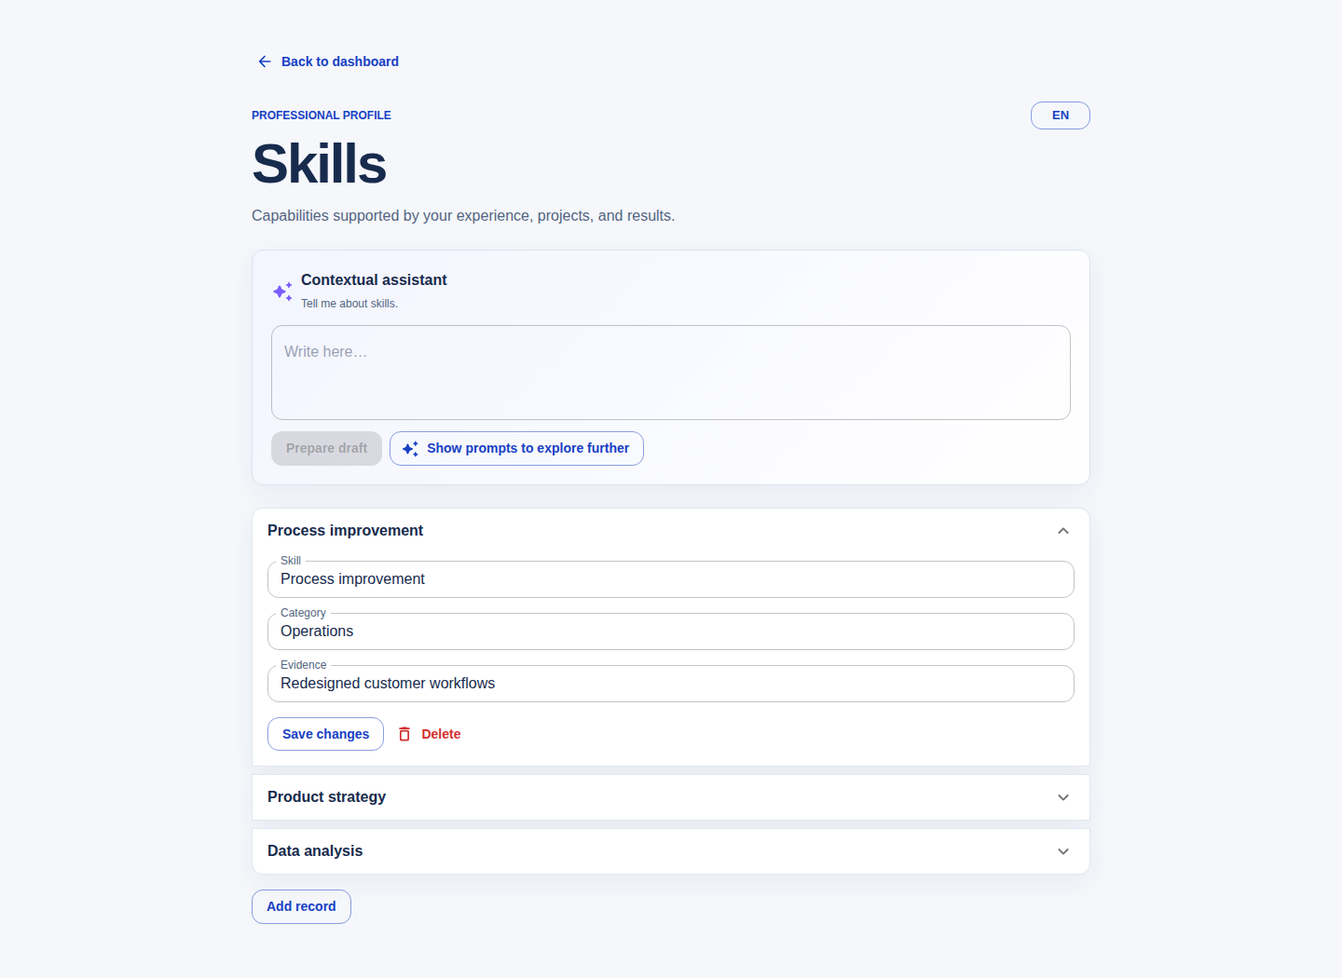
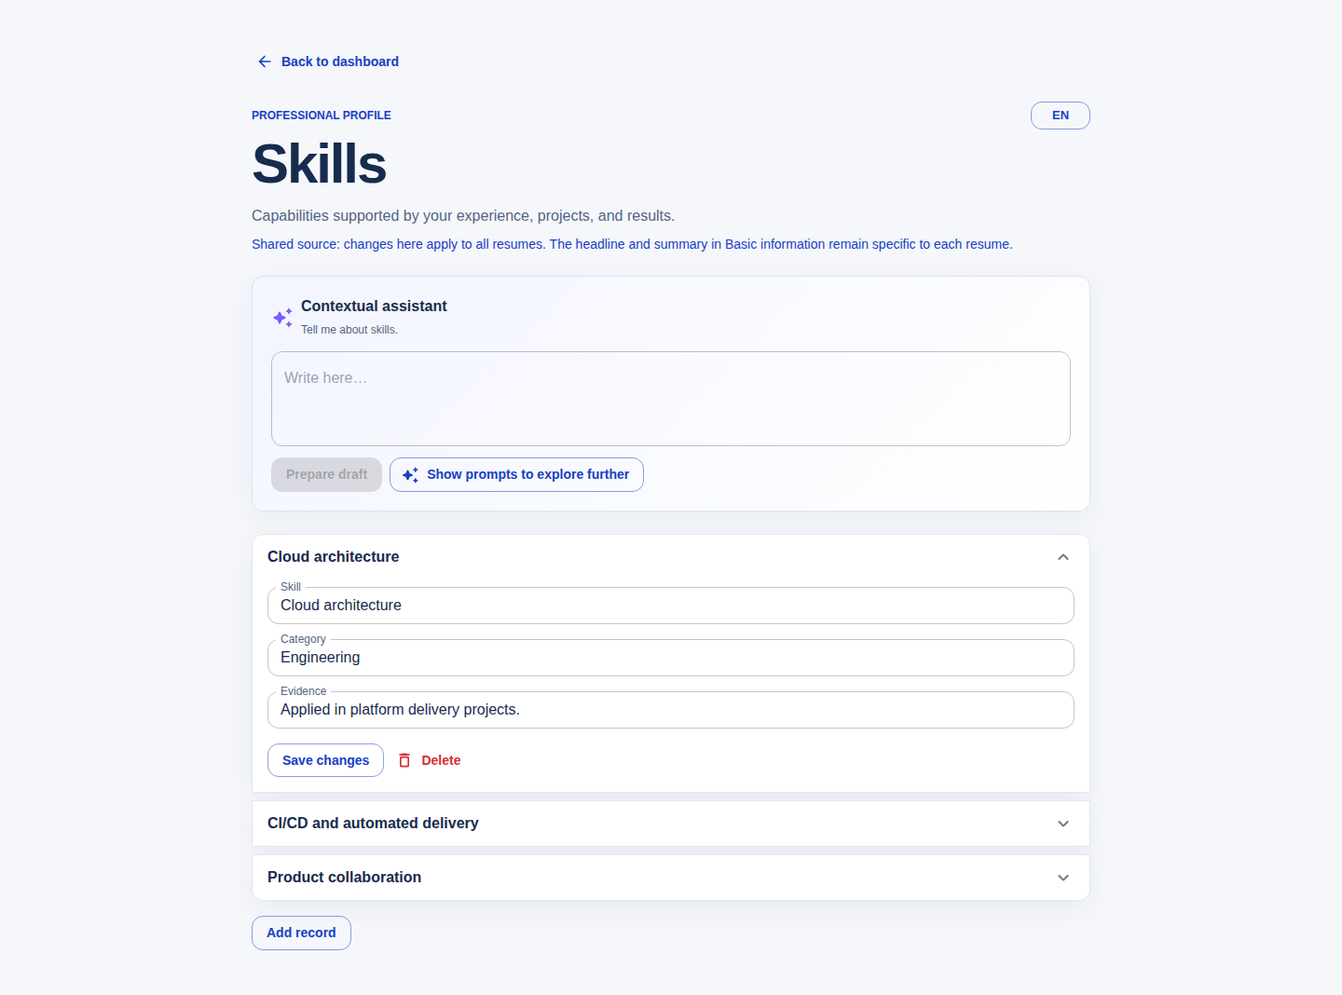
docs: standardize English guides and refresh current UI screenshots

diff --git a/docs/product/workspace.md b/docs/product/workspace.md
@@ -1,23 +1,13 @@
-# Workspace y navegación
+# Workspace and navigation
 
-1. La persona aterriza en `/`. En una instalación nueva no hay CVs ni información precargada; puede crear su primer CV vacío. Si ya existen CVs, selecciona uno según su objetivo.
-2. El perfil abre su dashboard en `/profiles/:id`.
-3. El workspace ofrece Información básica, Educación, Experiencia laboral, Proyectos, LinkedIn y Curriculum.
-4. Las secciones estructuradas navegan a `/profiles/:id/:section`.
-5. Educación, experiencia, proyectos y habilidades forman una fuente compartida entre todos los CV. Información básica (incluidos titular y resumen) permanece asociada al CV seleccionado.
-6. Cada sección de datos permite crear, editar, colapsar y eliminar registros.
-7. LinkedIn muestra proyectos y habilidades; Curriculum presenta una vista imprimible para guardar como PDF.
-8. El switcher de la barra lateral vuelve al selector de CVs.
-9. La configuración y el objetivo permanecen asociados al CV seleccionado.
+A new installation opens `/` with no CVs or career data. Create a resume from scratch, or select an existing one. Each resume opens at `/profiles/:id`; structured sections use `/profiles/:id/:section`.
 
-Al crear un CV se puede elegir otro como base y pegar la descripción de un proyecto o cargo. El sistema copia los datos básicos editables, guarda el objetivo y reutiliza la trayectoria compartida. En el dashboard, la persona puede pedir un borrador de titular y resumen con el proveedor de IA configurado en el CV base. Antes de enviarlo, la app muestra el proveedor y las categorías de datos que compartirá; el resultado requiere revisión y confirmación.
+The workspace includes Basic information, Education, Work experience, Projects, Skills, LinkedIn, Resume, and Settings. Each data section supports creating, editing, collapsing, and deleting records. Education, experience, projects, and skills form one shared career source. Basic information, headline, summary, reflection answers, goal, AI settings, and appearance belong to the selected CV.
 
-La vista de Currículum permite elegir entre las plantillas Franja coral, Panel lateral y Editorial; seleccionar cinco paletas prediseñadas; y crear una paleta ajustando los colores principal, secundario, texto, texto suave y fondo. Plantillas y paletas tienen catálogos JSON separados (`cv-templates.json` y `cv-palettes.json`). La plantilla, paleta personalizada o predefinida y preferencia de iconos se guardan por CV y forman parte de sus metadatos exportables.
+When creating a targeted CV, users can select an existing CV as a source and paste a project or role description. The app copies editable basic information and reuses shared career records. Users can request a headline and summary draft using the source CV's configured provider. Before sending, the app identifies the provider and data categories; the draft requires review and confirmation.
 
-La vista permite activar iconos Material en los títulos de sección; la preferencia se guarda por CV y los controles no aparecen al imprimir. Canada 1500 (CC0-1.0) y Material Icons (Apache-2.0) se sirven localmente. Sus licencias están en `public/fonts/`.
+The Resume view offers Coral banner, Sidebar, and Editorial templates, five preset palettes, and five custom colors. Template and palette catalogs are separate JSON files in `lib/profiles/`. Appearance and optional Material section icons are saved per CV and included in exported metadata. Interface labels support English and Spanish; user content is not automatically translated.
 
-La navegación usa enlaces con rutas reales. En pantallas pequeñas, el botón de menú abre un drawer y se cierra al elegir una sección.
+Canada 1500 and Material Icons are served locally; license notices are in `public/fonts/`. Templates use consistent spacing, fixed icon widths, and vertical sidebar skills. Sidebar uses the primary color as its panel background with contrasting text. Print rules discourage split entries, stranded headings, and short paragraph fragments where supported by the browser. Pagination depends on content, browser, and paper size; a single page is not guaranteed.
 
-Los ajustes del CV permiten exportar sus respuestas, contenido y registros como JSON o eliminarlo. Eliminar un CV no borra la fuente profesional compartida.
-
-El CV usa un espaciado común para títulos, entradas y listas. Los iconos reservan un ancho fijo y se alinean ópticamente con los encabezados. Panel lateral muestra las habilidades en vertical y usa el color principal como fondo del panel, con texto de contraste. Al imprimir, los títulos se mantienen junto al contenido siguiente, las entradas evitan dividirse y los párrafos y listas conservan al menos tres líneas cuando el navegador admite estas reglas. La paginación depende del contenido y del navegador; no se garantiza una sola página.
+LinkedIn shows a summary, projects, and skills. Resume uses the browser print dialog to save a PDF. Settings exports JSON or deletes the selected CV without deleting shared career records. Navigation uses real route links; the mobile drawer closes after a section is selected.

diff --git a/docs/engineering/test-coverage.md b/docs/engineering/test-coverage.md
@@ -1,31 +1,19 @@
-# Cobertura de pruebas
+# Test coverage
 
-El proyecto usa dos métricas complementarias:
+`npm run test:coverage` uses Vitest and V8 for library unit and integration coverage. Reports are generated under `coverage/` as text, HTML, and LCOV. `npm run test:e2e` uses Chromium and a production build for user flows; it does not measure React line coverage.
 
-- `npm run test:coverage` calcula cobertura de código de las unidades puras y de integración bajo `lib/` con Vitest y V8. Genera `coverage/` en formatos texto, HTML y LCOV.
-- `npm run test:e2e` valida recorridos completos en un navegador real con Playwright. Playwright no mide cobertura de líneas de React por defecto; su cobertura se reporta como cobertura de flujos.
+The latest library run passed 41 tests across eight files: 85% lines, 80.24% statements, 73.01% functions, and 73.78% branches. Thresholds are configured in `vitest.config.mts`. These figures do not imply complete AI, storage, or template coverage.
 
-La última ejecución cubrió `lib/` con 85% de líneas, 80.24% de statements, 73.01% de funciones y 73.78% de branches. Los umbrales de protección son 40%, 30%, 25% y 15% respectivamente; revisa `vitest.config.mts` para el detalle.
+The 19 browser tests cover CV creation and selection, desktop/mobile navigation, reflection persistence/reset, provider settings, accessibility, JSON export/deletion, experience records, and profile/resume views. The fixture initializes missing storage without overwriting answers on reload. Tests follow the current creation redirect and English selector heading.
 
-## Flujos cubiertos
+## Known intermittent failure
 
-La suite E2E tiene 19 pruebas para selección y creación de perfiles, navegación móvil y escritorio, conversación guiada, persistencia/reinicio, configuración BYOT, accesibilidad (axe/WCAG 2 AA), exportación y eliminación local, CRUD de experiencia y vistas de perfil/CV.
+The JSON-download test has occasionally timed out in the full parallel suite and passed individually. The MUI migration run passed 18/19, including accessibility; its failed download test passed on a focused rerun. Keep this visible rather than treating retries as proof of reliability.
 
-## Cómo aumentar el número
+## Dependency checks
 
-1. Ejecutar `npm run test:coverage` y revisar `coverage/index.html` para localizar líneas sin cubrir.
-2. Agregar primero pruebas unitarias para lógica determinista (`lib/`) y luego una prueba E2E para el recorrido visible.
-3. Ejecutar `npm run test:e2e` antes de subir cambios para detectar regresiones de navegación.
-4. No bajar los umbrales para ocultar una regresión; si una capacidad aumenta el alcance, agregar sus casos límite.
+The dependency update resolved the earlier Next.js/minimatch advisories; audit reported zero vulnerabilities at that run. Re-run audit before release. TypeScript is constrained to `~6.0.3`, within typescript-eslint 8.73.0's supported range (`>=4.8.4 <6.1.0`). TypeScript 7 remains tracked in issue #12. The Node type major is unchanged. No forced peer-dependency overrides are used.
 
-## Revisión del 19 de noviembre de 2026
+## Extending coverage
 
-Pasaron 41 pruebas unitarias y 19 E2E. El fixture de navegador siembra el perfil solo cuando no existe, para comprobar persistencia real tras recargas. Las pruebas de creación e idioma siguen la navegación y el encabezado actuales. Se eliminó una variable sin usar de la prueba de registros compartidos.
-
-El build de producción y TypeScript pasaron. Next.js emitió un aviso de vulnerabilidad en la versión instalada; el primer build se detuvo y el segundo completó con el aviso. El aviso se resolvió posteriormente actualizando las dependencias del lockfile. `next-env.d.ts` volvió a sus rutas de producción al ejecutar el build.
-
-La corrección de CI actualiza el lockfile a Next.js 16.4.6, ESLint 10.15.0, typescript-eslint 8.73.0 y minimatch 11.0.9. `npm audit fix` reportó cero vulnerabilidades y `npm run check` pasó sin desactivar controles.
-
-## Actualización de TypeScript
-
-TypeScript se actualiza a `~6.0.3`, compatible con `typescript-eslint@8.73.0` (`>=4.8.4 <6.1.0`). Se conserva la versión mayor de `@types/node`. TypeScript 7 sigue pendiente en el issue #12 hasta contar con soporte oficial del tooling; no se usan `--force` ni `--legacy-peer-deps`. El rango `~6.0.3` permite parches 6.0 sin saltar automáticamente a 6.1.
+Review `coverage/index.html`, prioritize deterministic behavior and real failure cases, then add browser checks for user-visible flows. Run `npm run check` and `npm run test:e2e` before release. Do not lower thresholds to hide regressions. PDF appearance still requires visual review across browsers and paper sizes.

diff --git a/docs/guides/wiki.md b/docs/guides/wiki.md
@@ -1,22 +1,22 @@
-# Publicación de la wiki
+# Publishing the GitHub Wiki
 
-`docs/` es la fuente oficial. El workflow `Publish documentation wiki` publica sus Markdown, imágenes y navegación cuando cambian en `main`, o al ejecutarlo manualmente. La sincronización reemplaza el contenido de la wiki: los cambios deben hacerse mediante PR en este repositorio.
+`docs/` is the source of truth. The `Publish documentation wiki` workflow publishes Markdown, assets, and navigation when documentation changes reach `main`, or when manually dispatched. It replaces wiki contents; edit documentation through repository pull requests.
 
-## Configuración inicial
+## Initial setup
 
-1. En GitHub, abre Wiki y crea la primera página. Esto inicializa el repositorio `ia-curriculum.wiki.git`.
-2. Crea un token con acceso de escritura a la wiki. Limita un token fine-grained a este repositorio con Contents: Read and write (Metadata: Read se incluye automáticamente). Usa una cuenta con permiso de escritura y autoriza SSO si corresponde. No guardes el token en archivos.
-3. Añádelo como secreto de Actions llamado `WIKI_TOKEN` en Settings → Secrets and variables → Actions. El workflow no depende de que `GITHUB_TOKEN` pueda escribir en el repositorio separado de la wiki.
-4. Integra el workflow en `main` y ejecútalo desde Actions. Confirma que Home, navegación e imágenes abren correctamente.
+1. Create the first page in GitHub Wiki to initialize `ia-curriculum.wiki.git`.
+2. Create a fine-grained token limited to this repository with Contents: Read and write and automatic Metadata: Read. Use an account with write access and authorize SSO if required. Never store the token in files.
+3. Save it as the Actions secret `WIKI_TOKEN`. The workflow does not assume `GITHUB_TOKEN` can write to the separate wiki repository.
+4. Merge the workflow into `main` and run it from Actions. Check Home, navigation, images, and the publication log. Token access must be verified by a successful push; a configured secret alone does not prove access.
 
-## Generación local
+## Local generation
 
-Desde la raíz del repositorio:
+From the repository root:
 
 ```bash
 python3 scripts/build-wiki.py --output /tmp/ia-curriculum-wiki-preview --repository p-donoso/ia-curriculum
 ```
 
-El destino debe estar vacío y fuera del repositorio. `docs/README.md` se convierte en Home; las demás páginas usan su ruta separada por `--`. Los enlaces Markdown locales se adaptan a páginas de wiki, recursos o archivos de `main`. Los enlaces externos y anclas locales se conservan. No se interpretan enlaces HTML ni referencias Markdown de estilo `[nombre][id]`; usa enlaces Markdown directos para contenido publicado.
+The destination must be empty and outside the repository. `docs/README.md` becomes Home; other page paths use `--` separators. Direct Markdown links are rewritten to wiki pages, assets, or source files on `main`. External links and local anchors are preserved. HTML links and reference-style Markdown links are not rewritten; use direct Markdown links in published content.
 
-La generación local no publica. El workflow usa un clon temporal, conserva `.git`, elimina páginas obsoletas y omite commits sin cambios. Nunca imprime el token ni lo incorpora a la URL remota.
+Local generation does not publish. The workflow uses a temporary clone, preserves `.git`, removes obsolete files, and skips unchanged commits. It never prints the token or embeds it in the remote URL.

diff --git a/docs/product/linkedin-profile.md b/docs/product/linkedin-profile.md
@@ -1,28 +1,16 @@
-# Modelo de salida para LinkedIn
+# LinkedIn output model
 
-El modelo futuro de LinkedIn Curriculum debe tratarse como una salida editorial, no como una copia literal del registro interno. La documentación oficial de LinkedIn organiza el perfil alrededor de una introducción, About, Experience, Education, Skills, Featured, licencias y certificaciones, cursos, recomendaciones y otras secciones adicionales.
+The current LinkedIn view presents the saved professional summary, projects, and skills. A complete editable LinkedIn draft remains future work. Output should be an editorial adaptation of confirmed career records, with AI suggestions clearly marked and reviewed before publication.
 
-## Núcleo inicial
+## Planned sections
 
-- **Introducción:** nombre, titular, ubicación, industria, foto y datos de contacto.
-- **About:** misión, motivación, fortalezas y propuesta de valor.
-- **Experience:** cargos, organizaciones, fechas, contexto, logros y capacidades asociadas.
-- **Education:** instituciones, programas, fechas y descripción.
-- **Skills:** habilidades relevantes, agrupadas y asociadas a evidencias.
-- **Featured:** proyectos, publicaciones, enlaces, documentos o muestras de trabajo.
+- Introduction: name, headline, location, industry, photo, and contact information.
+- About: mission, motivation, strengths, and value proposition.
+- Experience: roles, organizations, dates, context, achievements, and related skills.
+- Education: institutions, programs, dates, and descriptions.
+- Skills: relevant capabilities grouped and supported by evidence.
+- Featured: projects, publications, links, documents, and work samples.
 
-## Extensiones
+Possible extensions include certifications, courses, recommendations, volunteering, publications, awards, languages, organizations, patents, and test results. These are planning items, not claims about implemented features.
 
-- Licencias y certificaciones.
-- Cursos.
-- Recomendaciones.
-- Voluntariado y causas.
-- Publicaciones.
-- Honores y premios.
-- Idiomas.
-- Organizaciones.
-- Patentes y resultados de pruebas.
-
-La implementación debe generar una propuesta editable, marcar qué datos provienen del perfil y cuáles son sugerencias de IA, y exigir confirmación antes de presentar el contenido como listo para publicar.
-
-Referencia: [Add sections to your profile](https://www.linkedin.com/help/linkedin/answer/a540837/adding-sections-to-your-profile?lang=en) y [Your LinkedIn profile](https://www.linkedin.com/help/linkedin/answer/a564064/your-linkedin-profile-overview?lang=en).
+References: [Add sections to your profile](https://www.linkedin.com/help/linkedin/answer/a540837/adding-sections-to-your-profile?lang=en) and [Your LinkedIn profile](https://www.linkedin.com/help/linkedin/answer/a564064/your-linkedin-profile-overview?lang=en).

diff --git a/docs/showcase/README.md b/docs/showcase/README.md
@@ -1,6 +1,6 @@
 # Screenshot gallery
 
-These screens use fictional sample data generated in a temporary browser session. They do not contain real profile information or provider credentials. Older profile and CV screens are illustrative captures from before the shared-source workflow; follow the text below for the current behavior.
+These screens use fictional sample data generated in a temporary browser session. They do not contain real profile information or provider credentials. All images were refreshed against the MUI 9 application on November 19, 2026.
 
 All screenshots show the English interface for a consistent walkthrough.
 
@@ -60,13 +60,13 @@ Printable English CV:
 
 ![CV preview](screenshots/cv-preview.png)
 
-The current CV preview offers Franja coral, Panel lateral, and Editorial layouts, five preset palettes, and five editable custom colors. Layout and palette are saved per CV. The selector and applied examples below use fictional content.
+The current CV preview offers Coral banner, Sidebar, and Editorial layouts, five preset palettes, and five editable custom colors. Layout and palette are saved per CV. The selector and applied examples below use fictional content.
 
 Template and palette selectors:
 
 ![CV template and palette selectors](screenshots/cv-template-palette-picker.png)
 
-Custom palette applied to Panel lateral:
+Custom palette applied to Sidebar:
 
 ![Custom palette applied to the sidebar CV layout](screenshots/cv-custom-palette.png)
 
@@ -80,6 +80,21 @@ Mobile navigation:
 
 ![Mobile navigation](screenshots/mobile-navigation.png)
 
-## CV layout update
+## Print styling
 
-The existing CV screenshots are illustrative and predate the spacing, icon alignment, vertical sidebar skills, and dark sidebar changes. They do not verify the current print layout. See [workspace behavior](../product/workspace.md).
+This capture uses Chromium print media for the Editorial layout. It checks the visible print styles, not pagination across every paper size or browser.
+
+![Resume with print media styles](screenshots/cv-print.png)
+
+## Refreshing screenshots
+
+Build and start the application, then run the isolated synthetic-data capture script:
+
+```bash
+npm run build
+npm run start -- -p 3012
+# In another terminal:
+node scripts/capture-showcase.mjs
+```
+
+Set `SHOWCASE_URL` to use another local server. The script creates a fresh browser context, seeds fictional records, walks through reflection and section views, and captures all gallery images in English. It does not read an existing browser profile or use provider credentials. Review the generated images before committing them.

diff --git a/docs/product/guided-session.md b/docs/product/guided-session.md
@@ -1,11 +1,7 @@
-# Sesión guiada y edición contextual
+# Guided reflection and contextual editing
 
-1. El chat aparece arriba de cada sección estructurada y conoce el contexto actual.
-2. La persona puede escribir libremente y proponer un registro para confirmar.
-3. La persona puede pedir preguntas de seguimiento orientadas a resultados, acciones y aprendizajes.
-4. Las respuestas de reflexión se guardan con el CV activo. Educación, experiencia, proyectos y habilidades se guardan en la fuente compartida; la información básica y sus textos enfocados pertenecen al CV.
-5. La siguiente pregunta se deriva del número de respuestas mediante `nextPrompt`; al finalizar, se ofrece revisar el perfil.
-6. Las respuestas se guardan en el perfil al continuar. Una sesión nueva limpia esas respuestas solo después de confirmación.
-7. Si hay un token y endpoint configurados, continuar envía la conversación al proveedor; la interfaz lo informa junto al campo de respuesta.
+The dashboard guides three reflection questions about direction, contribution, and evidence. Answers are saved with the active CV when users continue. `nextPrompt` derives the next question from the saved answer count. Completion offers a profile review; starting a new session clears answers only after confirmation.
 
-El asistente debe reflejar, preguntar y pedir evidencia; no debe inventar logros ni completar información no confirmada. Sus respuestas son temporales y no se guardan como hechos.
+Structured sections include a contextual assistant. Users can write freely, request follow-up questions about outcomes and learning, and prepare a record proposal. Proposals require review and confirmation. Education, experience, projects, and skills are shared career records; basic information belongs to the selected CV.
+
+With a configured token and endpoint, continuing sends the conversation to the chosen provider. The interface explains this beside the answer field. Without AI configuration, answers remain local and the flow continues. Assistant replies are temporary suggestions, never verified facts; the assistant must ask for evidence rather than invent achievements.

diff --git a/docs/engineering/architecture.md b/docs/engineering/architecture.md
@@ -40,6 +40,6 @@ CV metadata, answers, CV-specific basic information (including headline and summ
 
 ## Material UI 9
 
-La interfaz usa `@mui/material`, `@mui/icons-material` y `@mui/material-nextjs` 9.5.0 juntos. El proveedor de caché corresponde a Next.js 16 (`v16-appRouter`). Las propiedades de estilo de los componentes se expresan mediante `sx`; las propiedades del elemento nativo de TextField usan `slotProps.htmlInput`, conservando los límites de longitud. La migración sigue la [guía oficial de MUI v9](https://mui.com/material-ui/migration/upgrade-to-v9/). No cambia los registros guardados ni sus claves de almacenamiento.
+The interface uses `@mui/material`, `@mui/icons-material`, and `@mui/material-nextjs` 9.5.0 together. The cache provider uses the Next.js 16 adapter (`v16-appRouter`). Component styles use `sx`; native TextField attributes use `slotProps.htmlInput`, preserving input length limits. Explicit white navigation text preserves contrast on dark backgrounds. Follow the [MUI v9 migration guide](https://mui.com/material-ui/migration/upgrade-to-v9/). Storage records and keys are unchanged.
 
-Validación de la migración: pasan formato, lint, 41 tests unitarios, build, TypeScript y auditoría sin vulnerabilidades. La suite de navegador pasó 18/19, incluida accesibilidad; la descarga JSON presenta el timeout intermitente ya observado antes de migrar. La prueba de vista imprimible pasa, pero no sustituye una revisión visual completa de todos los PDF.
+Migration checks passed formatting, lint, 41 unit tests, build, TypeScript, and dependency audit. Browser checks passed 18/19, including accessibility and the printable CV route; the existing intermittent JSON-download timeout passed when rerun individually. Route checks do not establish that every exported PDF layout is correct.

diff --git a/docs/product/roadmap.md b/docs/product/roadmap.md
@@ -10,7 +10,7 @@
 - [x] Optional BYOT streaming for OpenAI-compatible chat-completions APIs.
 - [x] Reviewable, schema-limited AI proposals.
 - [x] Profile JSON export and local profile-data deletion.
-- [x] Responsive profile navigation and printable English CV view.
+- [x] Responsive profile navigation and printable English and Spanish CV views.
 - [x] Three CV layouts, per-CV palette selection, and editable custom colors.
 - [x] Spanish and English CV interface labels and optional section icons.
 
@@ -20,7 +20,7 @@
 - [ ] Make LinkedIn output a complete editable draft.
 - [ ] Validate print layout and contrast across common browsers and paper sizes.
 - [ ] Add robust import with validation and conflict handling.
-- [ ] Add automated coverage for key user-facing flows and browser storage failure cases.
+- [ ] Expand automated coverage for storage failures, provider edge cases, and print pagination.
 
 ## Principles
 

diff --git a/docs/engineering/repository-review.md b/docs/engineering/repository-review.md
@@ -1,4 +1,6 @@
-# Deliverable audit — IA Curriculum
+# Historical deliverable audit — IA Curriculum
+
+This is an earlier audit snapshot, not a current readiness certification. Test counts, coverage, and implementation details below describe that review. See [current architecture](architecture.md), [test coverage](test-coverage.md), and [roadmap](../product/roadmap.md) for maintained status.
 
 **Verdict:** ship-ready (**8/10**)
 **Baseline comparison:** better than the ~2/10 reference — working product flows, real unit and browser tests, and an OSS-ready repository structure.

diff --git a/docs/guides/open-source-readiness.md b/docs/guides/open-source-readiness.md
@@ -10,7 +10,7 @@ IA Curriculum is an actively developed personal project, not a production servic
 - Browser storage and client-side token storage are not a security boundary against same-origin script execution.
 - AI proposals remain temporary until reviewed and saved by the user.
 - CV labels follow the selected interface language; user-provided profile text is not translated automatically.
-- Server-side PDF export and design templates are future work.
+- Three browser-print templates are available. Server-side PDF export remains future work.
 
 ## Release checks
 

diff --git a/docs/README.md b/docs/README.md
@@ -25,4 +25,4 @@ Guides are grouped by purpose. Start with the [visual walkthrough](showcase/READ
 - [Release checklist](guides/release.md)
 - [Open-source readiness](guides/open-source-readiness.md)
 
-- [Publicación automática de la wiki](guides/wiki.md)
+- [Automatic wiki publication](guides/wiki.md)
